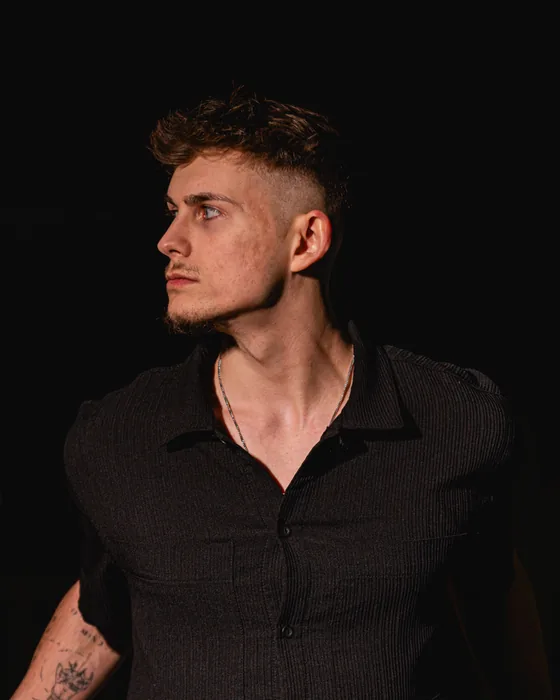
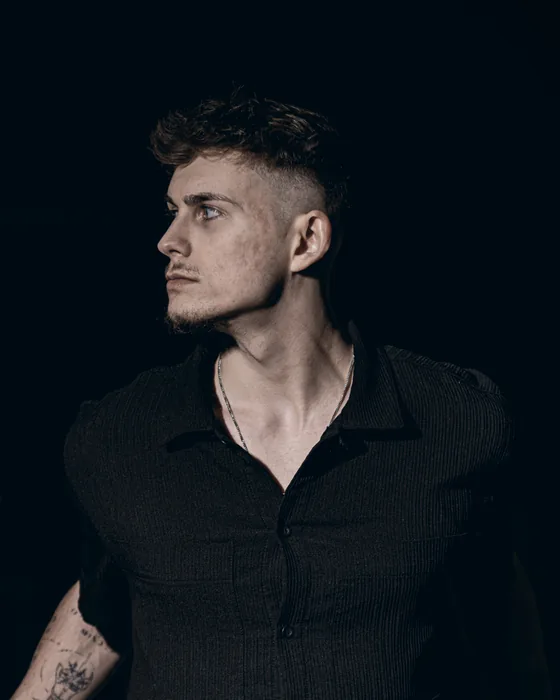
feat: einheitliches Color-Grading der Gründerfotos, eigene Zitate, Instagram für Philipp

diff --git a/about/index.html b/about/index.html
@@ -507,8 +507,8 @@
   /* Foto fuellt die Platte randlos; der Verlauf darunter bleibt als Grund
      stehen, solange das Bild laedt. */
   .ab-pic img{position:absolute;inset:0;width:100%;height:100%;object-fit:cover;display:block;
-    filter:saturate(.92) contrast(1.04);transition:transform .5s var(--ease),filter .5s var(--ease)}
-  .ab-fcard:hover .ab-pic img{transform:scale(1.03);filter:saturate(1) contrast(1.06)}
+    filter:none;transition:transform .5s var(--ease),filter .5s var(--ease)}
+  .ab-fcard:hover .ab-pic img{transform:scale(1.03)}
   @media (prefers-reduced-motion:reduce){.ab-pic img{transition:none}.ab-fcard:hover .ab-pic img{transform:none}}
   /* Angleich-Schleier: die beiden Aufnahmen kommen aus voellig verschiedenem
      Licht (Nacht vs. Studio-Weiss). Emerald oben, dunkler Fuss unten bindet
@@ -519,13 +519,15 @@
       linear-gradient(0deg,rgba(3,8,13,.62),rgba(3,8,13,.10) 42%,transparent 62%);
     transition:opacity .35s var(--ease)}
   .ab-fcard:hover .ab-pic::after{opacity:.82}
-  /* Studio-Weiss liegt tonal weit ueber der Nachtaufnahme daneben. Diese Platte
-     bekommt deshalb einen kraeftigeren Schleier, damit beide im selben
-     Helligkeitsbereich landen. */
-  .ab-pic.is-hell img{filter:saturate(.88) contrast(1.05) brightness(.88)}
+  /* Die Aufnahmen sind ausserhalb der Seite auf einen gemeinsamen Look
+     gerechnet (Farbort angeglichen, Saettigung zurueck, gleiche Tonwertkurve,
+     gleiche Vignette). Hier bleibt nur, was der Flaeche gehoert. Die hellere
+     Platte traegt lediglich einen etwas laengeren Fuss-Verlauf, damit sie
+     genauso in die Karte laeuft wie die dunkle. */
   .ab-pic.is-hell::after{background:
-      linear-gradient(168deg,rgba(0,184,136,.13),rgba(3,8,13,.22) 55%),
-      linear-gradient(0deg,rgba(3,8,13,.58),rgba(3,8,13,.18) 46%,rgba(3,8,13,.10) 74%)}
+      radial-gradient(115% 88% at 52% 36%,transparent 26%,rgba(3,8,13,.30) 68%,rgba(3,8,13,.62) 100%),
+      linear-gradient(168deg,rgba(0,184,136,.12),transparent 48%),
+      linear-gradient(0deg,rgba(3,8,13,.72),rgba(3,8,13,.24) 40%,transparent 68%)}
   .ab-fmeta{display:flex;align-items:baseline;gap:var(--s-4);flex-wrap:wrap}
   .ab-fname{font-family:"Fraunces",serif;font-weight:480;font-size:clamp(2rem,1.5rem + 1.8vw,2.85rem);line-height:.95;letter-spacing:-.03em;color:var(--paper)}
   .ab-frole{font-family:"Archivo",sans-serif;font-weight:700;font-size:10.5px;letter-spacing:.14em;text-transform:uppercase;color:var(--emerald-ink);background:linear-gradient(135deg,var(--emerald),var(--teal));padding:4px 11px;border-radius:100px}
@@ -712,8 +714,9 @@
             <h3 class="ab-fname">Philipp</h3>
             <span class="ab-frole">Gründer · Technik &amp; Vertrieb</span>
           </div>
-          <p class="ab-fline">&bdquo;Was du nicht messen kannst, kannst du nicht skalieren.&ldquo;</p>
+          <p class="ab-fline">&bdquo;Ich verkaufe niemandem etwas, das ich hinterher nicht nachrechnen kann.&ldquo;</p>
           <p class="ab-fbio">Hält Technik, Vertrieb und die Systeme dahinter zusammen — damit aus Reichweite planbares, messbares Wachstum wird. Jeder Fortschritt sichtbar in deinem Bereich.</p>
+          <a class="ab-fsocial" href="https://instagram.com/ph.lib" target="_blank" rel="noopener noreferrer" aria-label="Philipp auf Instagram, @ph.lib"><svg viewBox="0 0 24 24" aria-hidden="true"><rect x="3" y="3" width="18" height="18" rx="5"/><circle cx="12" cy="12" r="4"/><circle cx="17.2" cy="6.8" r="1.1" fill="currentColor" stroke="none"/></svg><span>@ph.lib</span></a>
         </article>
 
         <article class="ab-fcard">
@@ -727,7 +730,7 @@
             <h3 class="ab-fname">Sebastian</h3>
             <span class="ab-frole">Gründer · Content &amp; Reichweite</span>
           </div>
-          <p class="ab-fline">&bdquo;Wenn deine Botschaft nicht in drei Sekunden sitzt, ist der Rest egal.&ldquo;</p>
+          <p class="ab-fline">&bdquo;Ich poste für dich nichts, was ich auf meinem eigenen Account nicht posten würde.&ldquo;</p>
           <p class="ab-fbio">Baut als <b>@vegetarianhulk</b> selbst eine Community auf — und bringt diese Praxis direkt in deinen Auftritt: Positionierung, Content und Reichweite, die sofort verstanden wird.</p>
           <!-- ANPASSEN: Insta-Handle/URL bestätigen -->
           <a class="ab-fsocial" href="https://instagram.com/vegetarianhulk" target="_blank" rel="noopener noreferrer" aria-label="Sebi auf Instagram, @vegetarianhulk"><svg viewBox="0 0 24 24" aria-hidden="true"><rect x="3" y="3" width="18" height="18" rx="5"/><circle cx="12" cy="12" r="4"/><circle cx="17.2" cy="6.8" r="1.1" fill="currentColor" stroke="none"/></svg><span>@vegetarianhulk</span></a>
